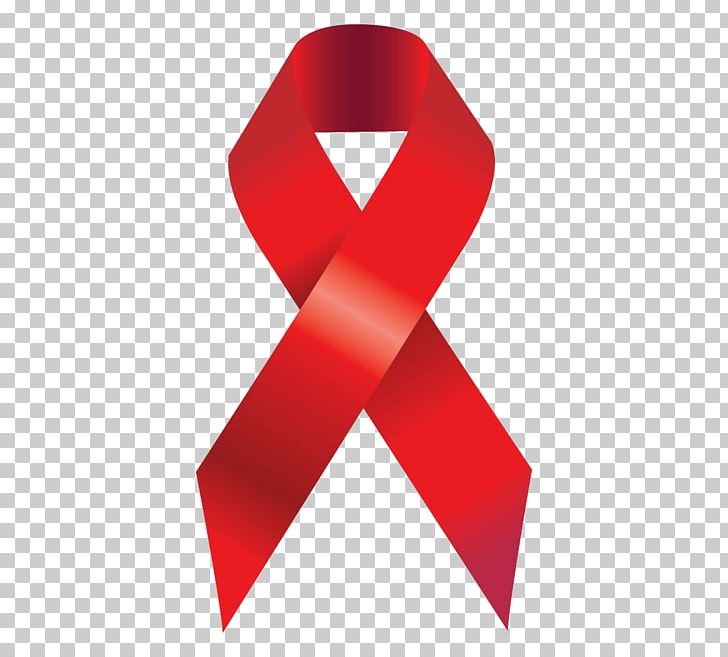
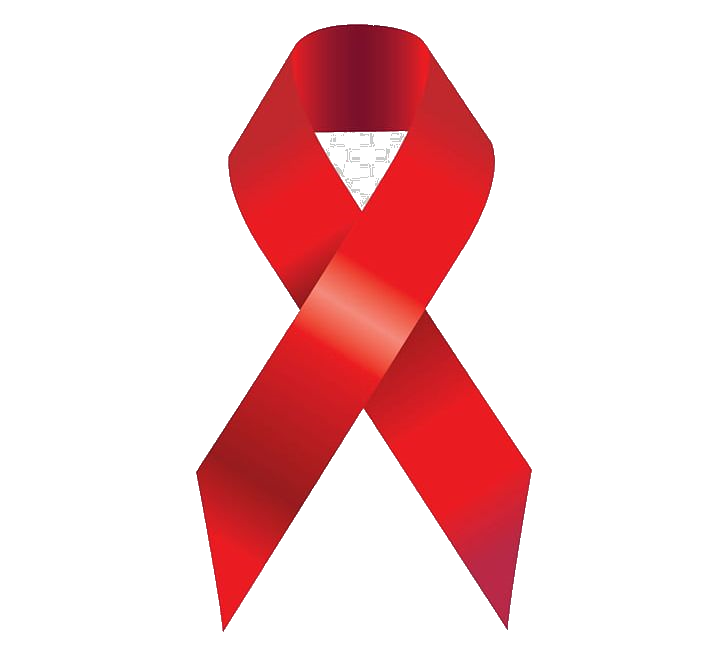
a bit
more work. not bueatiful yet.

diff --git a/about-hiv.html b/about-hiv.html
@@ -25,12 +25,11 @@
 	<p>
 		HIV is an acronym for Human Immunodeficiency Virus and AIDS is also an acronym for Acquired Immunodeficiency Syndrome. HIV and AIDS are connected in a way but they aren’t the same thing, HIV is an infection that leads to the possibility of getting AIDS which is a condition.  
 	</p>
-<a href="#spread_hiv">
-	<img src="images/arrow.gif" style="width:75px;height:75px;"></a>
 </div>
 <div id="spread_hiv">
 	<h2 style="text-decoration: underline;">How It Spreads</h2>
 	<div class="spread_info">
+	<img src="images/redribbon.png" style="width:200px; float: right;">
 	<p>HIV is spread by certain body fluids, and when it is spread it is called HIV transmission and the body fluids it can be spread by is...</p>
 <ol type="i">
 	<li>Blood</li>
@@ -59,6 +58,7 @@
 	<h3>PrEP</h3>
 	<p> PrEP is medication that can prevent you from getting HIV and usually people who have a very high chance of getting it, take it. It's a pill you take everyday, and the pills (brand)  name is Truvada. It contains to medicine that treat HIV in that singular pill
 	</p>
+	<img src="images/prep_medication.png" style="align-content: : center;">
 </div>
 <div class="aboutsec2">
 	<h3> Treatment Once You Have It</h3>

diff --git a/styles/about.css b/styles/about.css
@@ -157,17 +157,19 @@ ol {
 }
 .aboutsec1{
 	float: left;
-	width:45%;
+	width:46%;
 }
 .aboutsec2{
 	float: right;
-	width: 45%;
+	width: 46%;
 }
 #hiv_title{
 	text-shadow: 2px 2px grey;
 	text-align: center;
-	margin-top: 70px;
+	margin-top: 90px;
 	color: white;
 	font-size: 25px;
 }
-
+#hiv_medication{
+	padding-bottom: 400px;
+}
